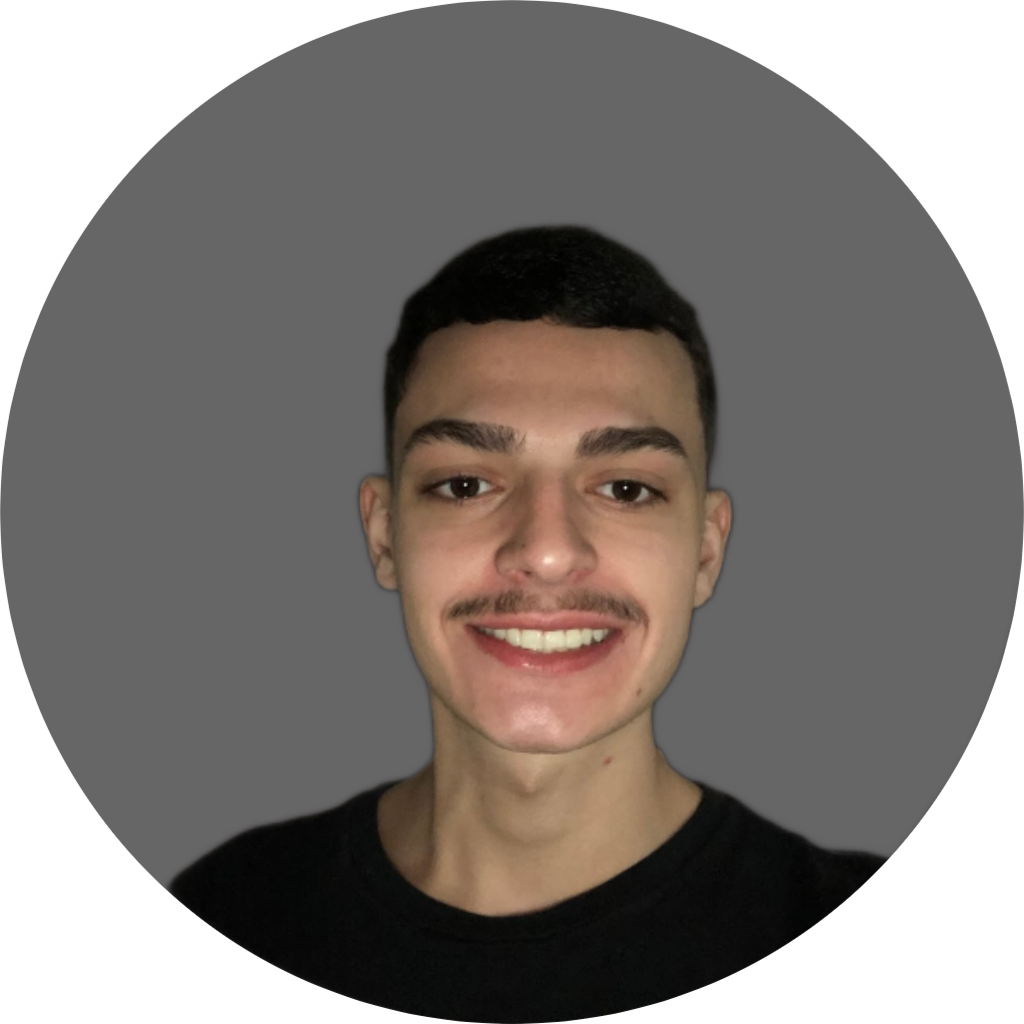
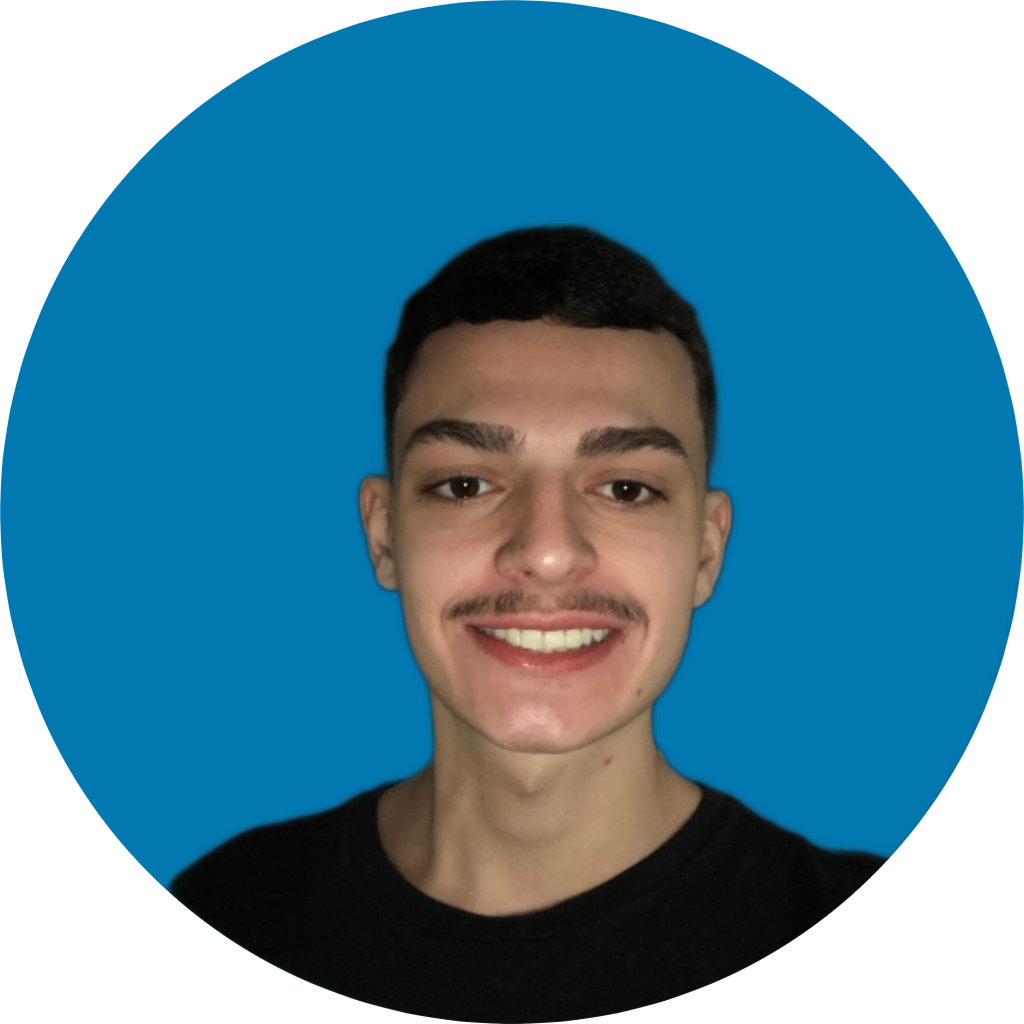
mudei cores

diff --git a/index.html b/index.html
@@ -14,7 +14,7 @@
     <link rel="stylesheet" href="style.css" />
     <link href="https://fonts.googleapis.com/css2?family=Montserrat:wght@300;400;600;700&display=swap" rel="stylesheet" />
     <script src="main.js" defer></script>
-    <link rel="icon" type="image/png" href="./imgs/yellow-modified.png" />
+    <link rel="icon" type="image/png" href="./imgs/blue.png" />
   </head>
   <body>
     <button class="scrollTop">
@@ -28,7 +28,7 @@
           height="2rem"
           width="2rem"
           xmlns="http://www.w3.org/2000/svg"
-          style="color: rgb(245, 245, 239)"
+          style="color: rgb(0, 0, 0)"
         >
           <path d="M6 4h12v2H6zm.707 11.707L11 11.414V20h2v-8.586l4.293 4.293 1.414-1.414L12 7.586l-6.707 6.707z"></path>
         </svg>
@@ -41,17 +41,17 @@
       </div>
       <div class="socials pt-4">
         <a href="mailto:pedro.virelli@gmail.com" target="_blank">
-          <img src="./imgs/mail.png" alt="mailIcon" class="mailLogo"
+          <img src="./imgs/mail-icon.png" alt="mailIcon" class="mailLogo"
         /></a>
         <a href="https://www.linkedin.com/in/pedro-scarelli/" target="_blank"
-          ><img src="./imgs/linkedin.png" alt="linkedinIcon" class="linkedinLogo"
+          ><img src="./imgs/linkedin-icon.png" alt="linkedinIcon" class="linkedinLogo"
         /></a>
         <a href="https://github.com/pvscarelli" target="_blank"
-          ><img src="./imgs/github.png" alt="githubIcon" class="githubLogo"
+          ><img src="./imgs/github-icon.png" alt="githubIcon" class="githubLogo"
         /></a>
       </div>
       <a href="#apresentation">
-        <img src="./imgs/arrowDown.gif" alt="arrowDownGif" class="arrowDown" />
+        <img src="./imgs/arrow-down.gif" alt="arrowDownGif" class="arrowDown" />
       </a>
     </div>
     <div class="container aboutme">
@@ -90,7 +90,7 @@
                         height="1.5rem"
                         width="1.5rem"
                         xmlns="http://www.w3.org/2000/svg"
-                        style="color: rgb(55, 55, 56)"
+                        style="color: rgb(255, 255, 255)"
                       >
                         <path
                           d="M2 4a2 2 0 0 1 2-2h6a2 2 0 0 1 2 2v11.5a.5.5 0 0 1-.777.416L7 13.101l-4.223 2.815A.5.5 0 0 1 2 15.5V4zm2-1a1 1 0 0 0-1 1v10.566l3.723-2.482a.5.5 0 0 1 .554 0L11 14.566V4a1 1 0 0 0-1-1H4z"
@@ -99,7 +99,7 @@
                           d="M4.268 1H12a1 1 0 0 1 1 1v11.768l.223.148A.5.5 0 0 0 14 13.5V2a2 2 0 0 0-2-2H6a2 2 0 0 0-1.732 1z"
                         ></path>
                       </svg>
-                      <strong>Aplicativo RH</strong>
+                      <strong class="mx-2">Aplicativo RH</strong>
                     </div>
                     <svg
                       stroke="currentColor"
@@ -110,7 +110,7 @@
                       height="1.5rem"
                       width="1.5rem"
                       xmlns="http://www.w3.org/2000/svg"
-                      style="color: rgb(55, 55, 56)"
+                      style="color: rgb(255, 255, 255)"
                     >
                       <path
                         d="M4.715 6.542 3.343 7.914a3 3 0 1 0 4.243 4.243l1.828-1.829A3 3 0 0 0 8.586 5.5L8 6.086a1.002 1.002 0 0 0-.154.199 2 2 0 0 1 .861 3.337L6.88 11.45a2 2 0 1 1-2.83-2.83l.793-.792a4.018 4.018 0 0 1-.128-1.287z"
@@ -126,7 +126,7 @@
                   </p>
                   <div class="technologies pt-2">
                     <span>Java</span>
-                    <span>Spring</span>
+                    <span>Spring Boot</span>
                   </div>
                 </a>
               </div>
@@ -147,7 +147,7 @@
                         height="1.5rem"
                         width="1.5rem"
                         xmlns="http://www.w3.org/2000/svg"
-                        style="color: rgb(55, 55, 56)"
+                        style="color: rgb(255, 255, 255)"
                       >
                         <path
                           d="M2 4a2 2 0 0 1 2-2h6a2 2 0 0 1 2 2v11.5a.5.5 0 0 1-.777.416L7 13.101l-4.223 2.815A.5.5 0 0 1 2 15.5V4zm2-1a1 1 0 0 0-1 1v10.566l3.723-2.482a.5.5 0 0 1 .554 0L11 14.566V4a1 1 0 0 0-1-1H4z"
@@ -156,7 +156,7 @@
                           d="M4.268 1H12a1 1 0 0 1 1 1v11.768l.223.148A.5.5 0 0 0 14 13.5V2a2 2 0 0 0-2-2H6a2 2 0 0 0-1.732 1z"
                         ></path>
                       </svg>
-                      <strong>Login com Spring Security</strong>
+                      <strong class="mx-2">Login com Spring Security</strong>
                     </div>
                     <svg
                       stroke="currentColor"
@@ -167,7 +167,7 @@
                       height="1.5rem"
                       width="1.5rem"
                       xmlns="http://www.w3.org/2000/svg"
-                      style="color: rgb(55, 55, 56)"
+                      style="color: rgb(255, 255, 255)"
                     >
                       <path
                         d="M4.715 6.542 3.343 7.914a3 3 0 1 0 4.243 4.243l1.828-1.829A3 3 0 0 0 8.586 5.5L8 6.086a1.002 1.002 0 0 0-.154.199 2 2 0 0 1 .861 3.337L6.88 11.45a2 2 0 1 1-2.83-2.83l.793-.792a4.018 4.018 0 0 1-.128-1.287z"
@@ -205,7 +205,7 @@
                         height="1.5rem"
                         width="1.5rem"
                         xmlns="http://www.w3.org/2000/svg"
-                        style="color: rgb(55, 55, 56)"
+                        style="color: rgb(255, 255, 255)"
                       >
                         <path
                           d="M2 4a2 2 0 0 1 2-2h6a2 2 0 0 1 2 2v11.5a.5.5 0 0 1-.777.416L7 13.101l-4.223 2.815A.5.5 0 0 1 2 15.5V4zm2-1a1 1 0 0 0-1 1v10.566l3.723-2.482a.5.5 0 0 1 .554 0L11 14.566V4a1 1 0 0 0-1-1H4z"
@@ -214,7 +214,7 @@
                           d="M4.268 1H12a1 1 0 0 1 1 1v11.768l.223.148A.5.5 0 0 0 14 13.5V2a2 2 0 0 0-2-2H6a2 2 0 0 0-1.732 1z"
                         ></path>
                       </svg>
-                      <strong>Estrutura de Dados</strong>
+                      <strong class="mx-2">Estrutura de Dados</strong>
                     </div>
                     <svg
                       stroke="currentColor"
@@ -225,7 +225,7 @@
                       height="1.5rem"
                       width="1.5rem"
                       xmlns="http://www.w3.org/2000/svg"
-                      style="color: rgb(55, 55, 56)"
+                      style="color: rgb(255, 255, 255)"
                     >
                       <path
                         d="M4.715 6.542 3.343 7.914a3 3 0 1 0 4.243 4.243l1.828-1.829A3 3 0 0 0 8.586 5.5L8 6.086a1.002 1.002 0 0 0-.154.199 2 2 0 0 1 .861 3.337L6.88 11.45a2 2 0 1 1-2.83-2.83l.793-.792a4.018 4.018 0 0 1-.128-1.287z"
@@ -259,7 +259,7 @@
                         height="1.5rem"
                         width="1.5rem"
                         xmlns="http://www.w3.org/2000/svg"
-                        style="color: rgb(55, 55, 56)"
+                        style="color: rgb(255, 255, 255)"
                       >
                         <path
                           d="M2 4a2 2 0 0 1 2-2h6a2 2 0 0 1 2 2v11.5a.5.5 0 0 1-.777.416L7 13.101l-4.223 2.815A.5.5 0 0 1 2 15.5V4zm2-1a1 1 0 0 0-1 1v10.566l3.723-2.482a.5.5 0 0 1 .554 0L11 14.566V4a1 1 0 0 0-1-1H4z"
@@ -268,7 +268,7 @@
                           d="M4.268 1H12a1 1 0 0 1 1 1v11.768l.223.148A.5.5 0 0 0 14 13.5V2a2 2 0 0 0-2-2H6a2 2 0 0 0-1.732 1z"
                         ></path>
                       </svg>
-                      <strong>Validador de arquivos HTML</strong>
+                      <strong class="mx-2">Validador de arquivos HTML</strong>
                     </div>
                     <svg
                       stroke="currentColor"
@@ -279,7 +279,7 @@
                       height="1.5rem"
                       width="1.5rem"
                       xmlns="http://www.w3.org/2000/svg"
-                      style="color: rgb(55, 55, 56)"
+                      style="color: rgb(255, 255, 255)"
                     >
                       <path
                         d="M4.715 6.542 3.343 7.914a3 3 0 1 0 4.243 4.243l1.828-1.829A3 3 0 0 0 8.586 5.5L8 6.086a1.002 1.002 0 0 0-.154.199 2 2 0 0 1 .861 3.337L6.88 11.45a2 2 0 1 1-2.83-2.83l.793-.792a4.018 4.018 0 0 1-.128-1.287z"

diff --git a/style.css b/style.css
@@ -8,7 +8,7 @@
 }
 
 body {
-  background-color: #272727;
+  background-color: #f5f5f5;
 }
 
 .pfp {
@@ -24,20 +24,20 @@ body {
 }
 .name {
   font-family: "Montserrat", sans-serif;
-  color: #ffd700;
+  color: #000000;
   padding-bottom: 42px;
 }
 
 .typewriter-container {
   overflow: hidden;
-  border-right: 2px solid #fff;
+  border-right: 2px solid #000;
   white-space: nowrap;
   margin: 0 auto;
   letter-spacing: 3px;
 }
 #typewriter-text {
   display: inline-block;
-  color: #fff;
+  color: #000;
   font-size: 24px;
   margin-bottom: 0;
 }
@@ -47,7 +47,6 @@ body {
 }
 .linkedinLogo {
   width: 38px;
-  padding-bottom: 5px;
 }
 
 .githubLogo {
@@ -65,21 +64,21 @@ body {
 }
 
 .apresentation {
-  color: #ffd700;
+  color: #272727;
   font-size: 50px;
   font-weight: bold;
   width: 400px;
 }
 
 .apresentationText {
-  color: white;
+  color: #000000;
   font-size: 22px;
   text-align: justify;
   line-height: 1.5;
 }
 
 .projectsTitle {
-  color: #ffd700;
+  color: #272727;
   font-size: 50px;
   font-weight: bold;
 }
@@ -90,7 +89,7 @@ body {
 }
 
 .projectItem {
-  background-color: white;
+  background-color: #272727;
   border-radius: 5px;
   cursor: pointer;
   height: 200px;
@@ -98,7 +97,7 @@ body {
 }
 .projectItem a {
   text-decoration: none;
-  color: black;
+  color: #fff;
   font-size: 18px;
 }
 
@@ -123,12 +122,12 @@ body {
 }
 
 .technologies span {
-  background-color: #ffd700;
+  background-color: #b0b0b0;
   padding: 8px 11px;
   border-radius: 15px;
   margin-top: auto;
   vertical-align: end;
-  color: #272727;
+  color: #ffffff;
   font-weight: bolder;
 }
 
